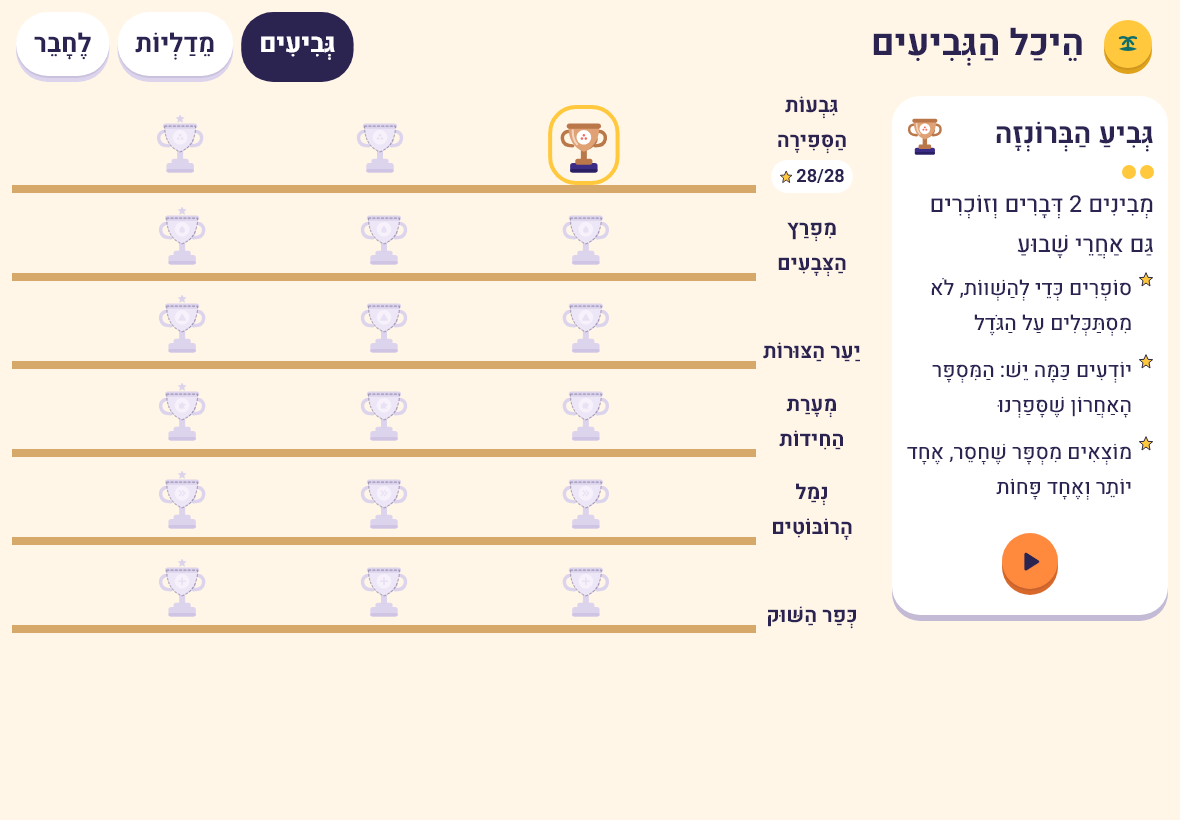
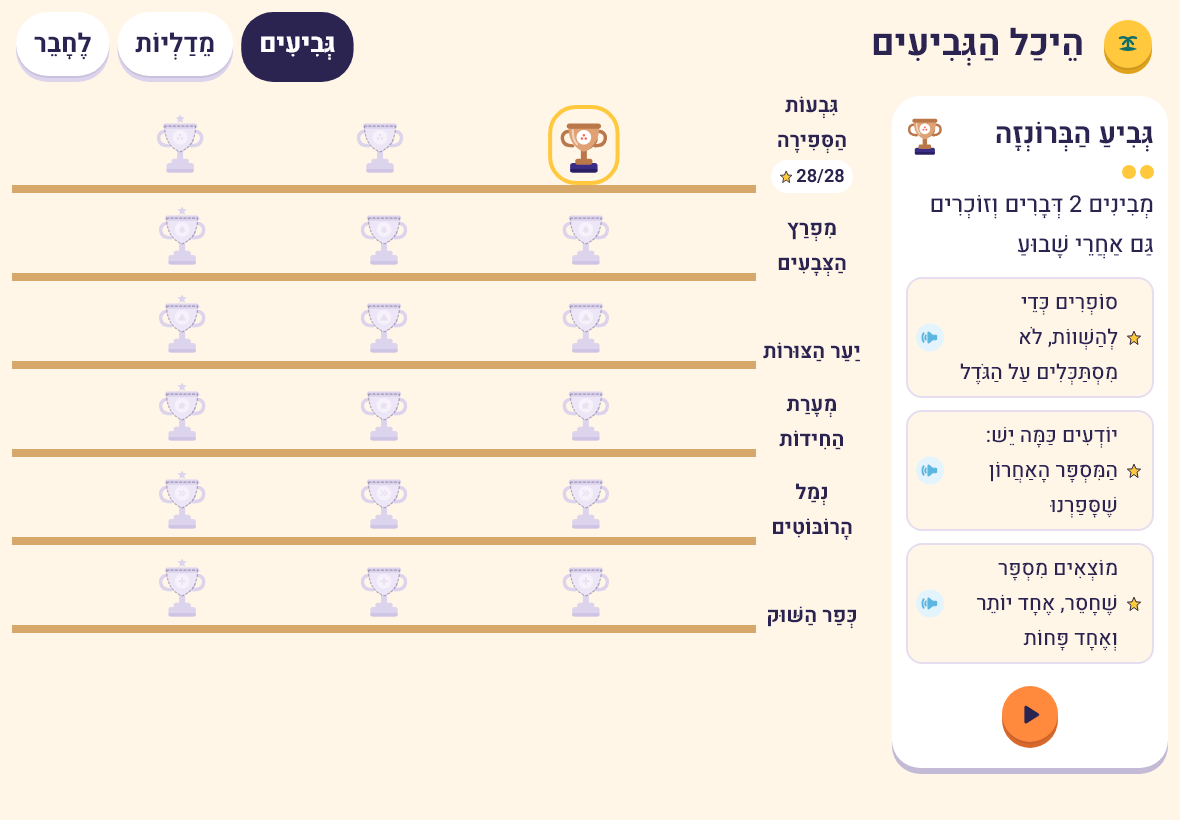
Map-card voice QA re-check: QA-B45-CL-1..3 closed; full suite green but the known starter_pack_test; QA-B45-CL-4 (minor, older, design-director): at text 1.3 on phoneSE the hall title ends 4 pt from the tab pill

Changed region(s): [[0.7627, 0.3354, 1.0, 0.7927], [0.7627, 0.8232, 1.0, 0.9451]]

diff --git a/docs/qa/b45-childline-verification.md b/docs/qa/b45-childline-verification.md
@@ -60,3 +60,12 @@ All three are minor; none blocks this feature. QA-B45-CL-1 and -3 exist on `main
 2. Latency of the first tap after the `skill` pack (about 6 MiB) is read from disk, and that a quick second tap or leaving the island mid-line is clean on the real player.
 3. That a child discovers the star line in the hall is tappable (QA-B45-CL-2).
 4. Text scale 1.3 on the device's own font setting (QA-B45-CL-1, -3).
+
+## Re-verification after the design-director's fix (60cd404), 2026-11-02
+
+Ran: `flutter analyze` clean, format 385 files 0 changed, my layout test and `childline_voice_test` and the source rule (44 passed, with the tightened checks), full `flutter test` 3,260 passed, 4 skipped, 1 failed (only the known `starter_pack_test`). Ten PNGs in `docs/qa/` regenerated from the fixed build and opened.
+
+- **QA-B45-CL-1: CLOSED.** The card sits between the title and the pictures at every board and both text scales: bottom at 142 pt (1.0) or 137 pt (1.3, one row), no picture under it, no control covered.
+- **QA-B45-CL-2: CLOSED.** No hall star row is under 56 pt (64 pt rows, shortest lines included), at all four boards and both scales; every row is scrollable into reach and tapped.
+- **QA-B45-CL-3: CLOSED.** The shelf-name cut was my test's scroll; the new test checks the name whole when the hall opens, on all boards at 1.3.
+- **QA-B45-CL-4 (new, minor, design-director, large text only).** `trophy_hall.dart:140` the hall title "היכל הגביעים" ends 4 pt from the "גביעים" tab pill at text 1.3 on phoneSE 667x375 (title left 357.7, pill right 353.6). Fine at 1.0 (gap 103 pt) and on the 852x393 phone at 1.3 (189 pt). Older than this feature. Measured with a throw-away test (not kept).
